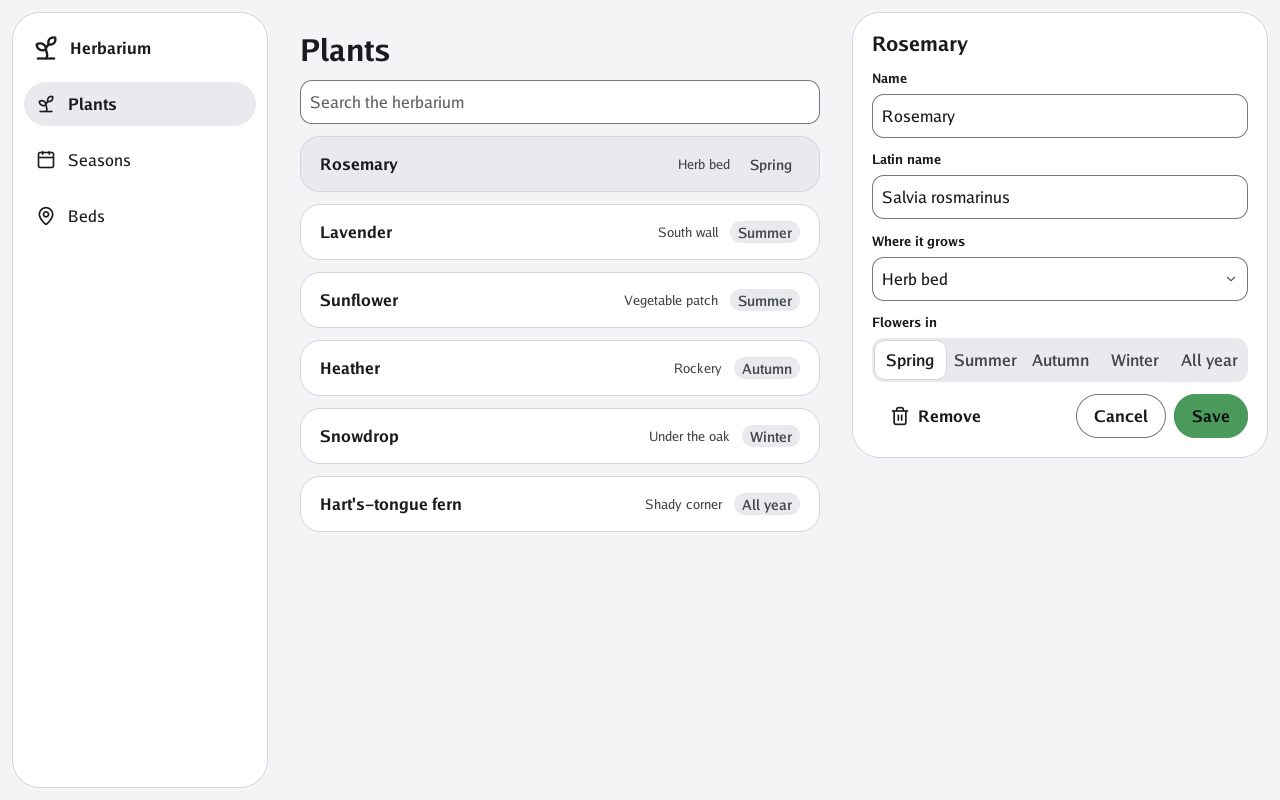
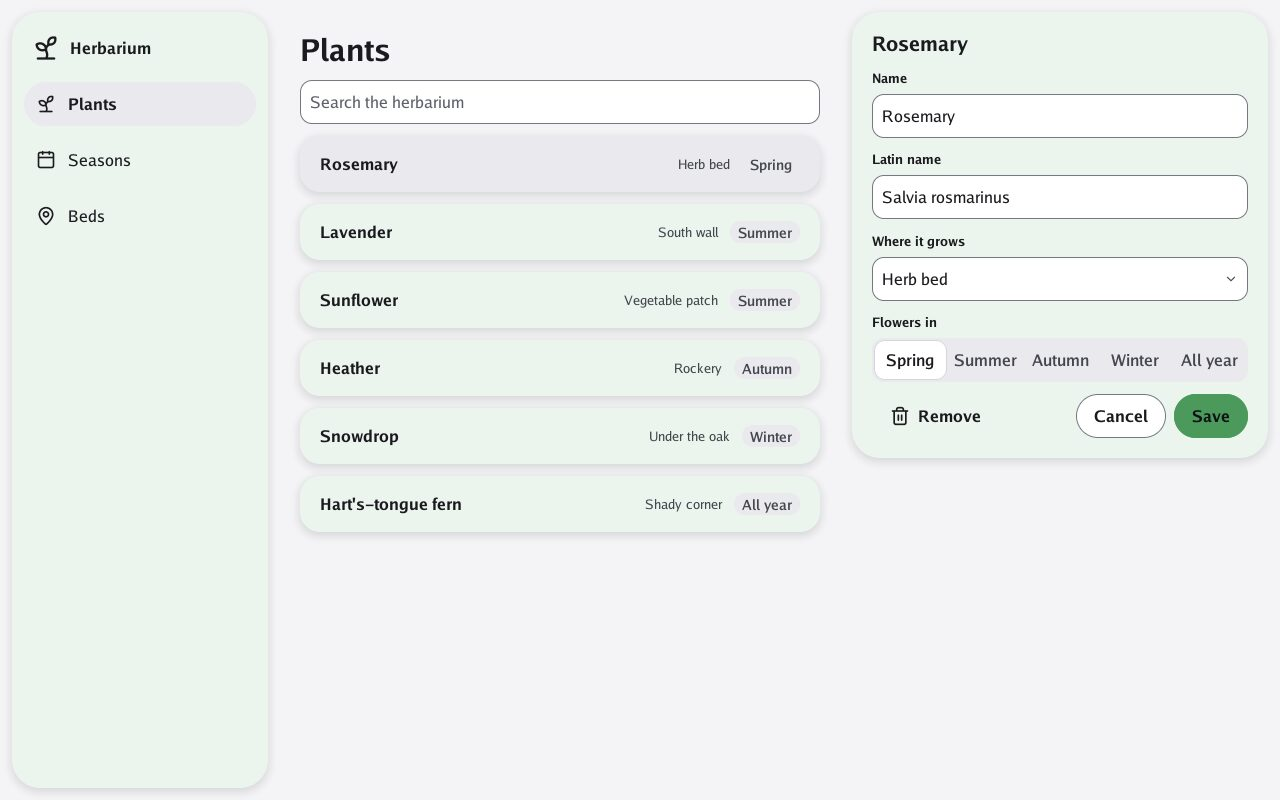
Docs: Bubble's Material is half done; Go UI for Android's is the look to reach
The herbarium in Go now draws its panes and rows in each style, as the
CSS does: tinted and floating on Material.

Changed region(s): [[0.25, 0.4062, 0.625, 0.4375], [0.25, 0.3125, 0.625, 0.3438], [0.6875, 0.5625, 0.9688, 0.5938]]

diff --git a/goui/examples/herbarium/main.go b/goui/examples/herbarium/main.go
@@ -136,7 +136,7 @@ func (garden *herbarium) list(context *ui.Context) {
 		if !matches(each.name, garden.search) {
 			continue
 		}
-		look := ui.Look{Fill: theme.Surface, Border: theme.Line, BorderWidth: 1, Radius: float32(garden.design.Shape.CardRadius)}
+		look := garden.surface(float32(garden.design.Shape.CardRadius))
 		chosen := look
 		chosen.Fill = theme.Sunken
 		looks := ui.Looks{Normal: look, Hovered: chosen, Pressed: chosen}
@@ -179,14 +179,28 @@ func (garden *herbarium) sheet(context *ui.Context) {
 	})
 }
 
-// pane is Bubble's .pane: a surface with a fine line on paper, a pane of glass on glass.
+// pane is Bubble's .pane: a surface with a fine line on paper, a pane of glass on glass, and on
+// Material a tinted surface that floats.
 func (garden *herbarium) pane(context *ui.Context, layout ui.Layout, content func()) {
 	theme := context.Theme
-	look := ui.Look{Fill: theme.Surface, Border: theme.Line, BorderWidth: 1, Radius: theme.PanelRadius}
-	if garden.ground != nil {
-		look = ui.Look{Fill: theme.Surface, Radius: theme.PanelRadius}
+	context.Frame(layout, garden.surface(theme.PanelRadius), content)
+}
+
+// materialTint is how much accent tint Bubble's CSS mixes into a Material card.
+const materialTint = 0.45
+
+// surface is how Bubble's CSS draws a card or a pane in the theme's style, with the given corners.
+func (garden *herbarium) surface(radius float32) ui.Look {
+	theme, colours := garden.theme, garden.design.Colors
+	switch {
+	case garden.ground != nil:
+		return ui.Look{Fill: theme.Surface, Radius: radius}
+	case garden.design.Options.Style == bubble.StyleMaterial:
+		tinted := colours.Surface.Mix(colours.AccentTint, materialTint)
+		return ui.Look{Fill: draw2d.MustHex(tinted.Hex()), Radius: radius, Shadow: true}
+	default:
+		return ui.Look{Fill: theme.Surface, Border: theme.Line, BorderWidth: 1, Radius: radius}
 	}
-	context.Frame(layout, look, content)
 }
 
 // field writes a field's name over it, as Bubble's .field does.

diff --git a/docs/4-the-quest/8-material.md b/docs/4-the-quest/8-material.md
@@ -2,6 +2,10 @@
 
 **Goal:** the herbarium in Material, the look Android users know, without touching its parts.
 
+> **Material is half done.** Today Bubble's material style changes shapes and tints, but it is
+> still close to paper. The look it is heading for is Go UI for Android's, shown at the end of
+> this level. The pictures here are of today's style, and will change.
+
 ## On the web
 
 Add one attribute:
@@ -20,7 +24,7 @@ What changed, and what did not:
 |---|---|
 | buttons and chips are pills | every class in the HTML |
 | cards are tinted with the accent and float | the green, adjusted the same way |
-| the index becomes a rail of icons | light, dark and the densities |
+| the index becomes a rail of icons | fields, lists and type, for now |
 
 ## In Go
 
@@ -30,12 +34,19 @@ go run ./examples/herbarium -style material
 
 ![The herbarium in Material, in Go](../images/quest/8-material-go.jpg)
 
-In the program it is one field: `Style: bubble.StyleMaterial`.
+In the program it is one field: `Style: bubble.StyleMaterial`. The herbarium's own panes read the
+style too: on Material they are tinted and float, as Bubble's CSS draws them.
 
-## What is coming
+## Where Material is going
+
+This is the Material Bubble is heading for, from Go UI for Android's gallery: tonal surfaces
+tinted from the accent, no lines round panes, filled fields with a line under them, a pill behind
+the chosen place, and Roboto at Material's scale.
+
+![Go UI for Android's Material: buttons and fields](../images/material-target.jpg)
 
 Material is more than a look. Android apps also share their parts: a navigation bar at the
-bottom, snackbars, dialogs, carousels. Those parts are moving into Bubble from Go UI for Android,
+bottom, snackbars, dialogs, carousels. Those parts, and the look above, are moving into Bubble from Go UI for Android,
 as controls that read Bubble's theme, so they will work in paper and glass too.
 [Material's components](../5-guides/5-material-components.md) follows that work.
 

diff --git a/docs/4-the-quest/7-to-the-desktop.md b/docs/4-the-quest/7-to-the-desktop.md
@@ -80,17 +80,31 @@ because the theme says so.
 
 A few of Bubble's parts have no control of their own in Go UI: the `.pane`, or a `.list-item`
 that opens a sheet. The program draws them with Go UI's `Frame` and `Clickable`, reading the
-theme's values:
+theme's values, as Bubble's CSS does in each style:
 
 ```go
-// pane is Bubble's .pane: a surface with a fine line on paper, a pane of glass on glass.
+// pane is Bubble's .pane: a surface with a fine line on paper, a pane of glass on glass, and on
+// Material a tinted surface that floats.
 func (garden *herbarium) pane(context *ui.Context, layout ui.Layout, content func()) {
 	theme := context.Theme
-	look := ui.Look{Fill: theme.Surface, Border: theme.Line, BorderWidth: 1, Radius: theme.PanelRadius}
-	if garden.ground != nil {
-		look = ui.Look{Fill: theme.Surface, Radius: theme.PanelRadius}
+	context.Frame(layout, garden.surface(theme.PanelRadius), content)
+}
+
+// materialTint is how much accent tint Bubble's CSS mixes into a Material card.
+const materialTint = 0.45
+
+// surface is how Bubble's CSS draws a card or a pane in the theme's style, with the given corners.
+func (garden *herbarium) surface(radius float32) ui.Look {
+	theme, colours := garden.theme, garden.design.Colors
+	switch {
+	case garden.ground != nil:
+		return ui.Look{Fill: theme.Surface, Radius: radius}
+	case garden.design.Options.Style == bubble.StyleMaterial:
+		tinted := colours.Surface.Mix(colours.AccentTint, materialTint)
+		return ui.Look{Fill: draw2d.MustHex(tinted.Hex()), Radius: radius, Shadow: true}
+	default:
+		return ui.Look{Fill: theme.Surface, Border: theme.Line, BorderWidth: 1, Radius: radius}
 	}
-	context.Frame(layout, look, content)
 }
 ```
 

diff --git a/docs/5-guides/5-material-components.md b/docs/5-guides/5-material-components.md
@@ -5,8 +5,8 @@ stands. Nothing here can be used yet.
 
 ## What exists today
 
-Bubble's **material style** is complete for the parts Bubble has: pill buttons, tinted cards that
-float, a rail of icons for the index. Turn it on with `data-style="material"` or
+Bubble's **material style** is a first step: pill buttons, tinted cards that float, a rail of
+icons for the index. Fields, lists, type and surfaces are still paper's. Turn it on with `data-style="material"` or
 `Style: bubble.StyleMaterial`.
 
 ## What is moving here
@@ -20,7 +20,14 @@ Material 3's own parts for Go UI. They are moving into Bubble:
 | navigation bars and rails, drawers, dialogs, snackbars, chips, carousels, pickers, pull to refresh | `bubble/goui`, as controls | they are parts; reading Bubble's theme, they work in paper and glass too |
 | the system's colours, drawing under the system bars, the back gesture | Go for Android (the renamed Go UI for Android) | they are Android, not design |
 
-## What it will look like
+## The look to reach
+
+Go UI for Android's Material is the reference: Bubble's material style is done when it looks like
+this gallery, compared side by side as the showcase compares the browser and Go.
+
+![Go UI for Android's Material: buttons and fields](../images/material-target.jpg)
+
+## What the parts will look like
 
 Each part will be a control that reads Bubble's theme, next to `goui.Theme`. Its name and options
 will be written here when they exist. Until then, follow the work in

diff --git a/docs/1-overview.md b/docs/1-overview.md
@@ -65,7 +65,7 @@ You do not need to know design. You need to know a little HTML, or a little Go.
 | Look | What it feels like | How to ask for it |
 |---|---|---|
 | **Paper** (the default) | a warm page by day, the slate of the logos by night | nothing |
-| **Material** | what Android users know: tinted cards, a rail of icons | `data-style="material"` |
+| **Material** (half done) | what Android users know: tinted cards, a rail of icons | `data-style="material"` |
 | **Glass** | frosted panes over a soft light or a wallpaper | `data-glass` (paper only) |
 
 Each comes in light and dark, and in a comfortable or a compact density.
@@ -85,8 +85,8 @@ Each comes in light and dark, and in a comfortable or a compact density.
 **In development.** Bubble 4 is a new start: Bubble 3, a CSS framework of classes, is gone.
 The tokens, the CSS and the Go UI module work and are tested. Coming next:
 
-- Material's components for Go UI (navigation bars, dialogs, snackbars), moving here from
-  Go UI for Android. See [Material's components](5-guides/5-material-components.md).
+- Material's full look and its components for Go UI (navigation bars, dialogs, snackbars),
+  moving here from Go UI for Android, whose Material is the reference. See [Material's components](5-guides/5-material-components.md).
 - A release with a version number. Until then, take the files from the `main` branch.
 
 ## 👪 The family
